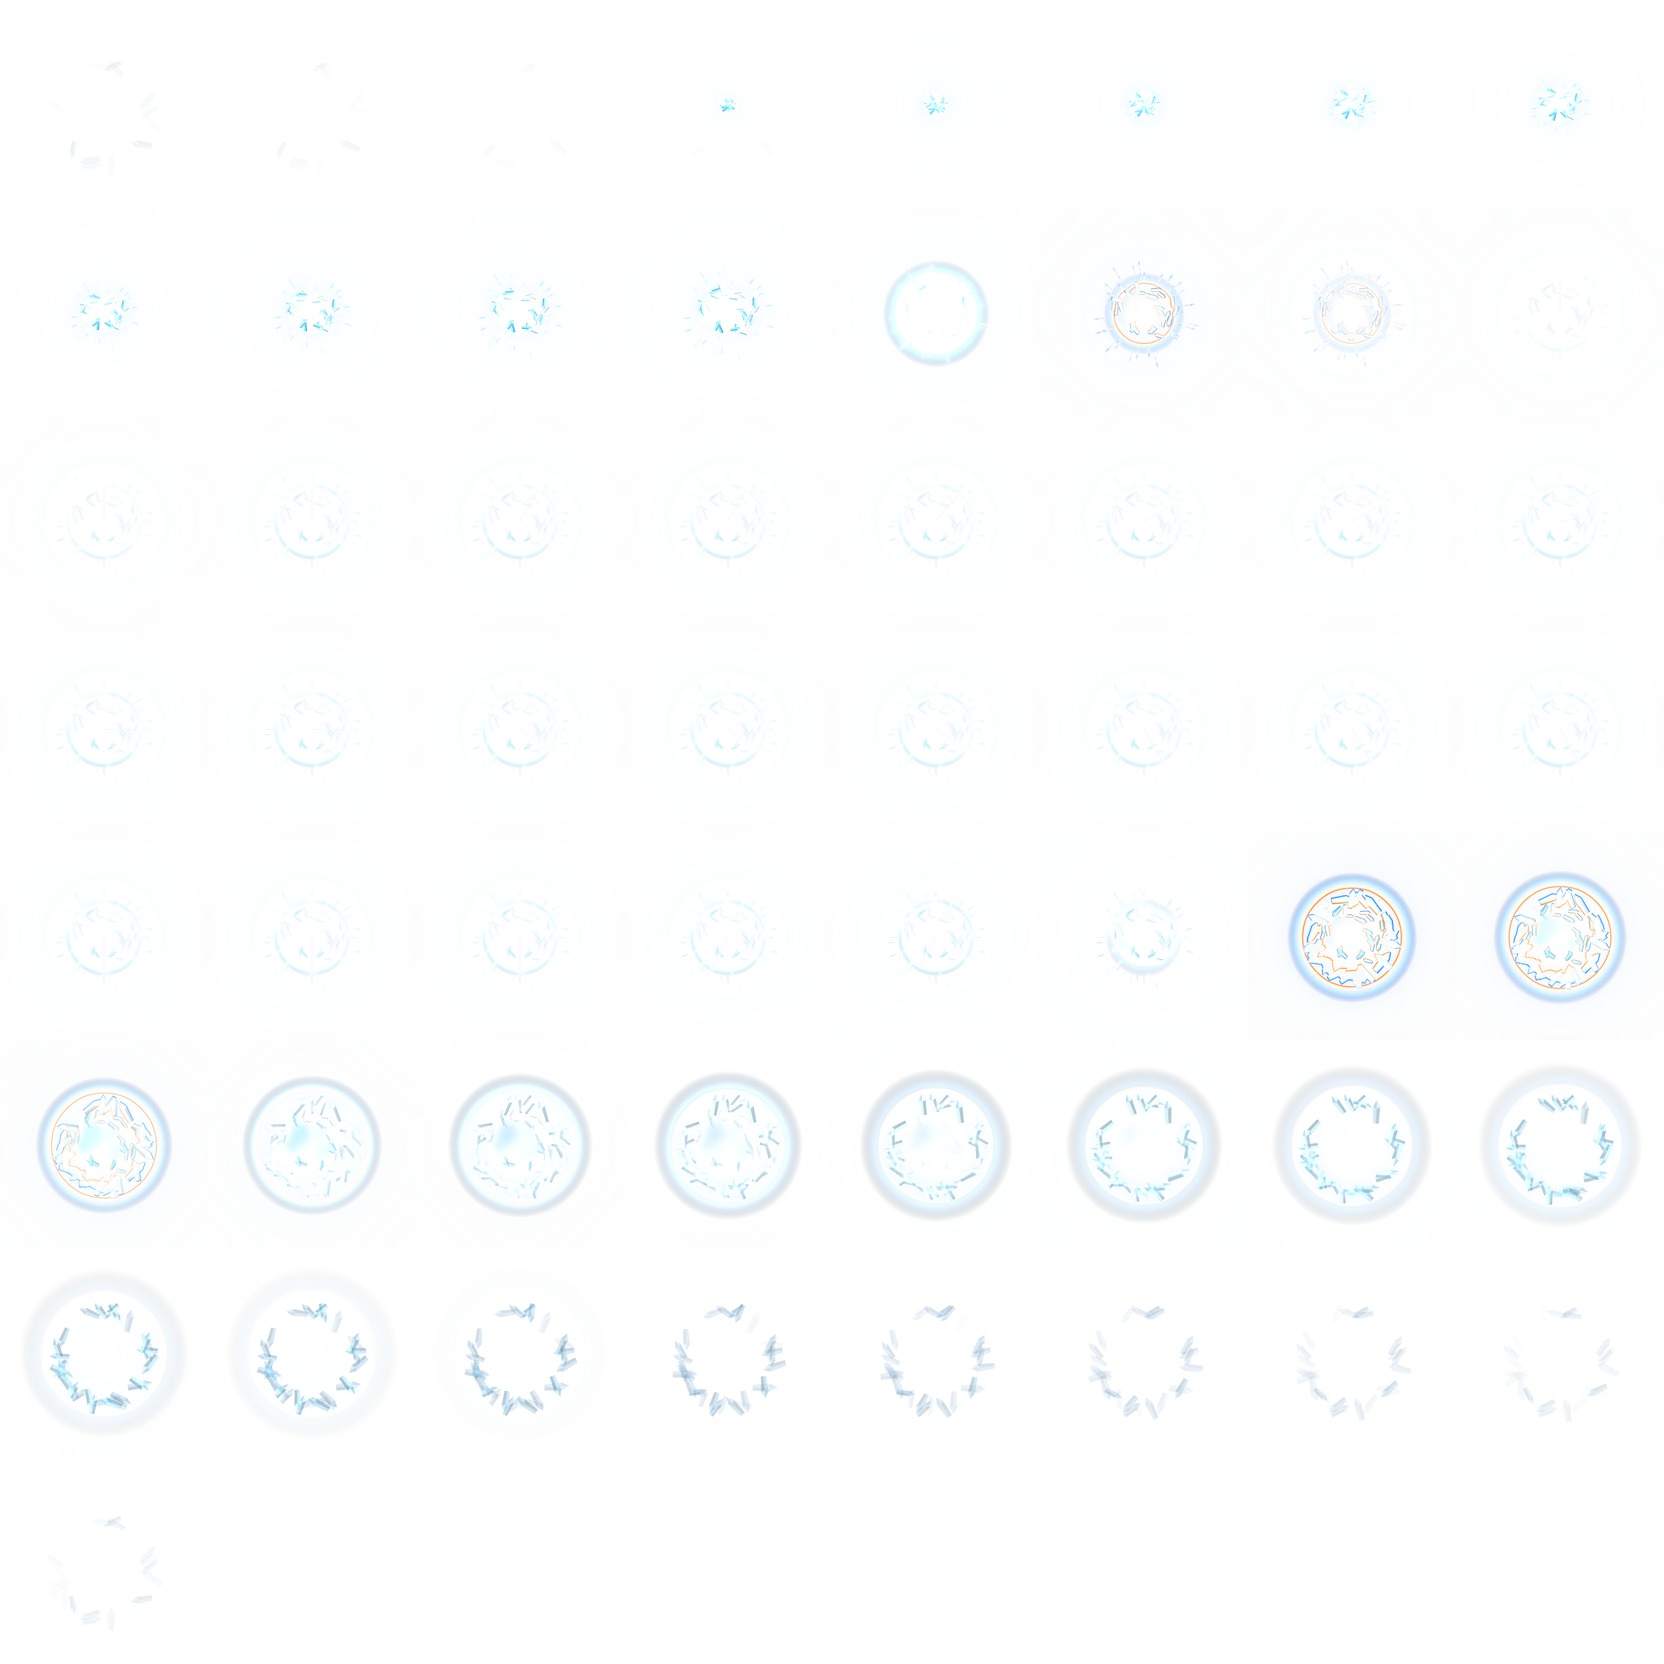
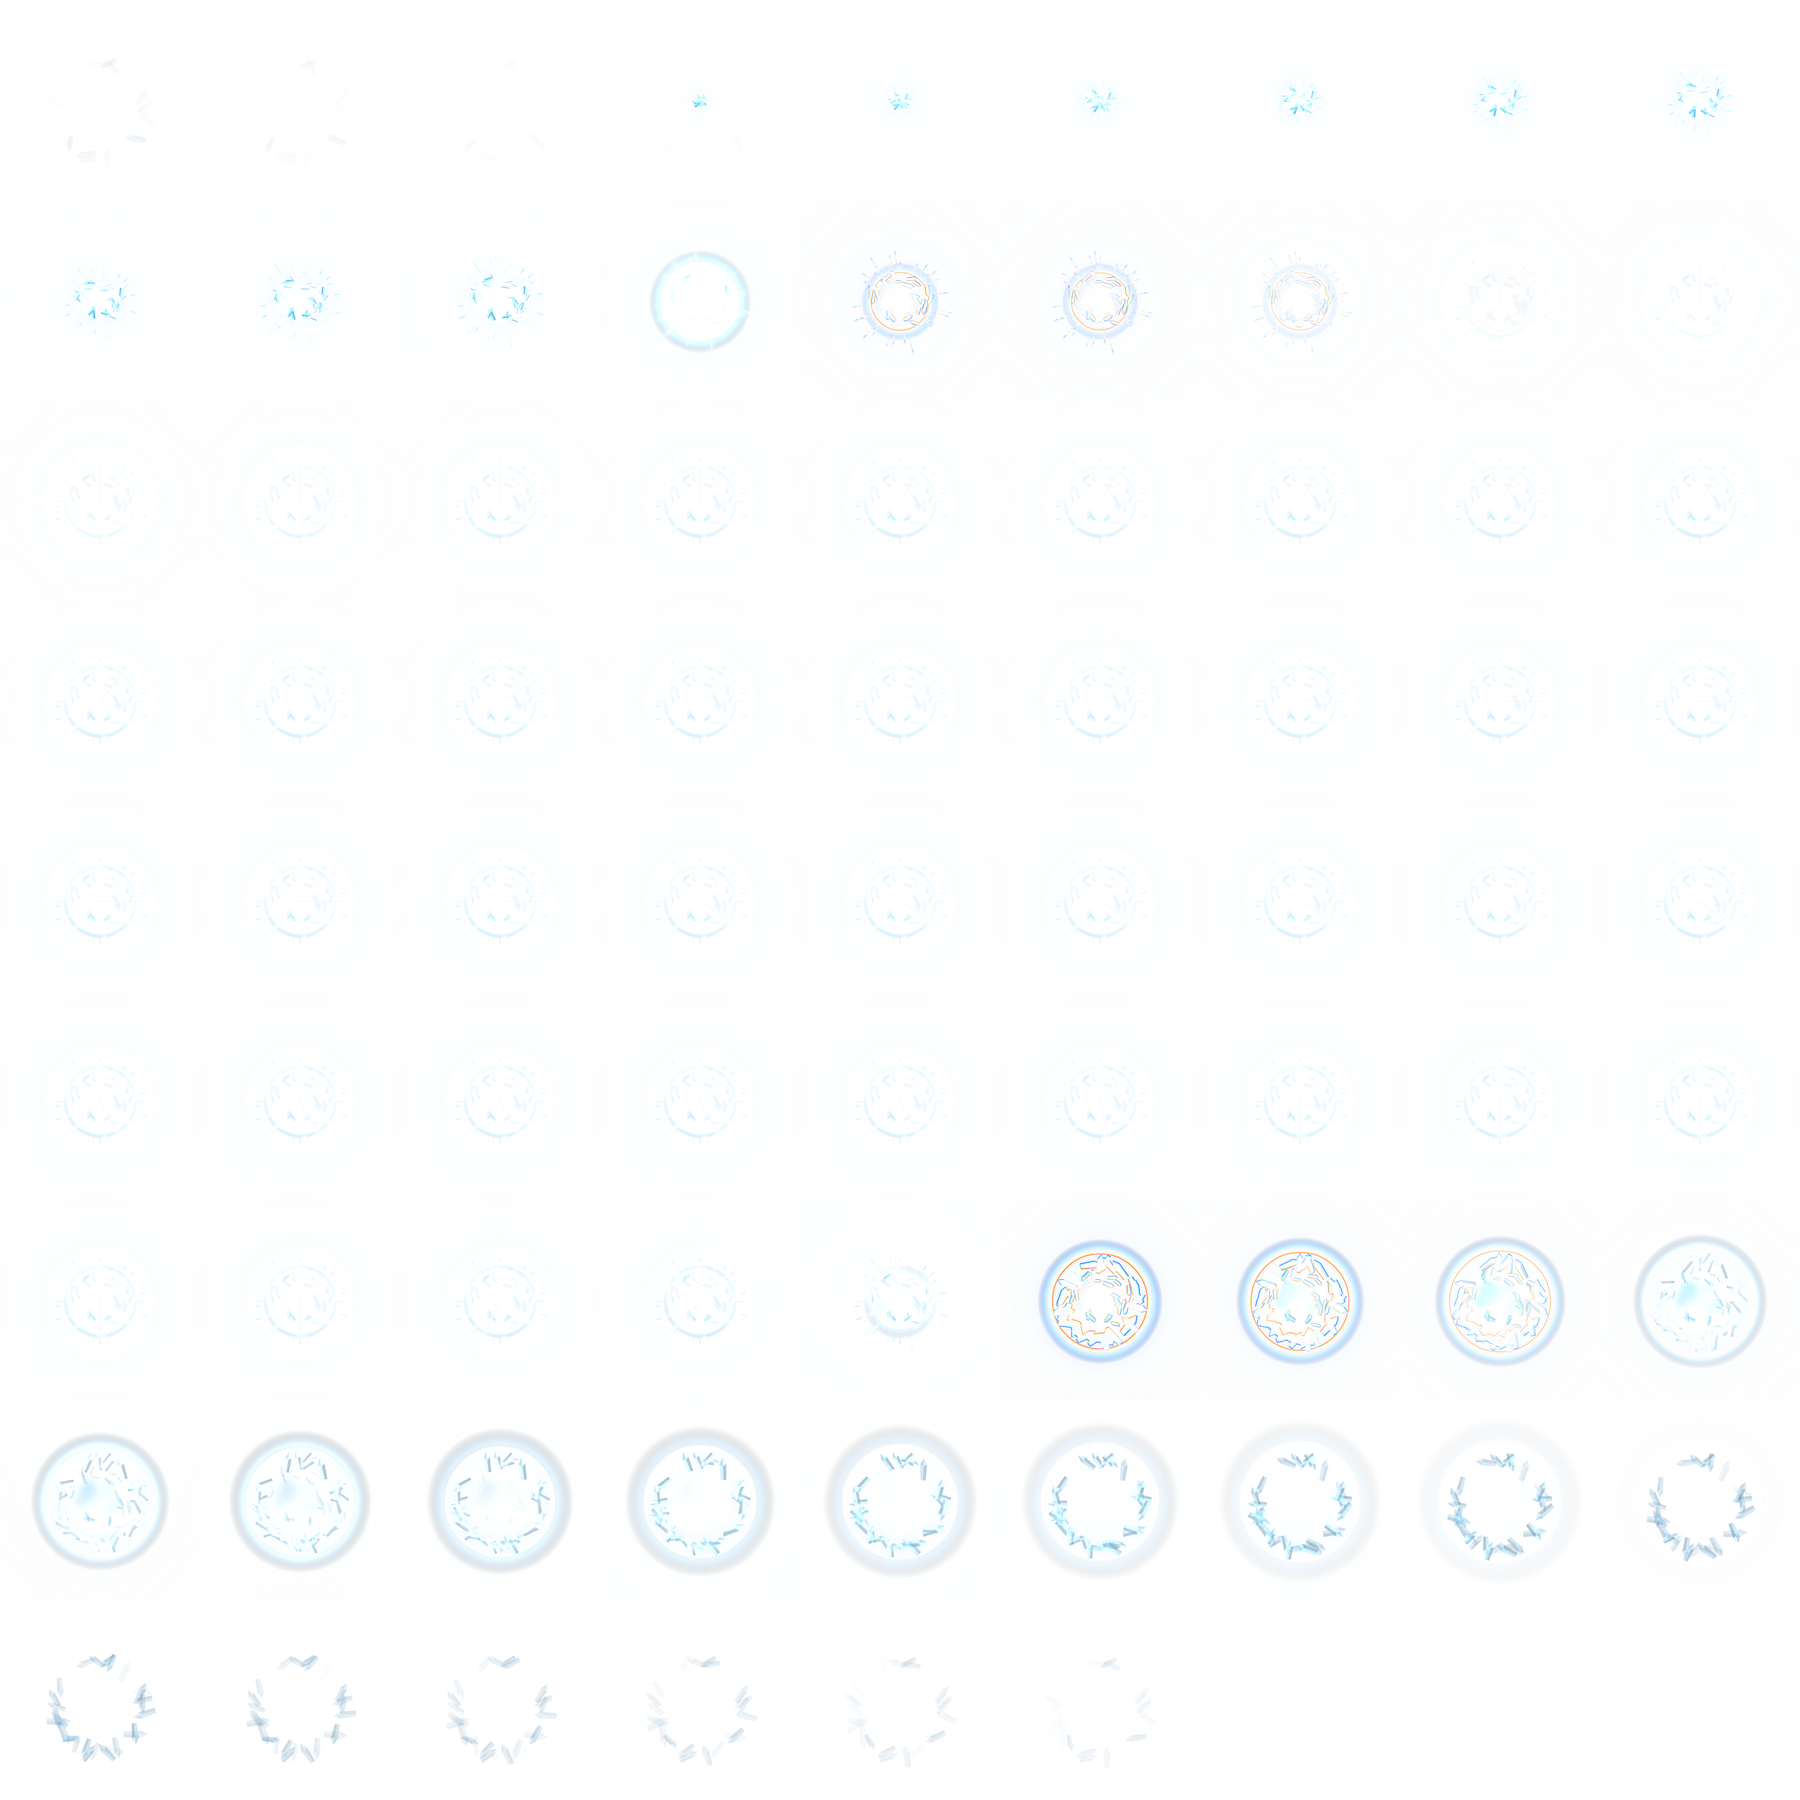
Absolute Zero clock: follows your cursor, its hand makes one full turn over the time stop (no more swinging back), brighter glow
Claude-Session: https://claude.ai/code/session_015kvLDLm9C1chE3KQqwCgsb

diff --git a/src/combat/IceFx.jsx b/src/combat/IceFx.jsx
@@ -208,28 +208,34 @@ export function IceScreen({ s, mainCard, mobile }) {
   );
 }
 
-// The zero point: an ice orb (ParticleFX sprite sheet, public/fx/ice_zero.png: 8 columns of
-// 208px frames) forms where you cast Absolute Zero, hangs there pulsing while time is stopped,
-// then shatters as time comes back and the storm hits.
-const ZERO = { img: `${BASE}fx/ice_zero.png`, cols: 8, rows: 8, form: [0, 13], hold: [13, 22], shatter: [35, 22], formDur: 0.6, holdFps: 12, shatterDur: 1 };
+// The zero point: an ice clock (ParticleFX sprite sheet, public/fx/ice_zero.png: 9 columns of
+// 200px frames) around your cursor while time is stopped. It forms, then its hand makes one
+// full turn over the time stop and it shatters as time comes back (with the storm). The sheet
+// only sweeps the hand 12 → 6, so for 6 → 12 the last frame turns half a circle.
+const ZERO = { img: `${BASE}fx/ice_zero.png`, cols: 9, rows: 9, form: [0, 15], hold: [15, 41], shatter: [56, 22], formDur: 0.5, shatterDur: 1 };
 function ZeroOrb({ s, ic, az }) {
-  let f;
+  let f, rot = 0;
   if (az) {
-    const e = az.dur - ICE_INTRO - az.t;   // seconds since the burst art cleared
+    const e = az.dur - ICE_INTRO - az.t;                       // seconds since the burst art cleared
+    const span = Math.max(0.1, az.dur - ICE_INTRO - ZERO.formDur);
     if (e < ZERO.formDur) f = ZERO.form[0] + Math.min(ZERO.form[1] - 1, Math.floor(e / ZERO.formDur * ZERO.form[1]));
     else {
-      const n = ZERO.hold[1], i = Math.floor((e - ZERO.formDur) * ZERO.holdFps) % (n * 2 - 2);
-      f = ZERO.hold[0] + (i < n ? i : n * 2 - 2 - i);   // back and forth: the loop doesn't jump
+      const p = Math.min(1, (e - ZERO.formDur) / span);          // 0 … 1: one full turn of the hand
+      if (p < 0.5) f = ZERO.hold[0] + Math.min(ZERO.hold[1] - 1, Math.floor(p * 2 * ZERO.hold[1]));
+      else { f = ZERO.hold[0] + ZERO.hold[1] - 1; rot = (p - 0.5) * 360; }
     }
   } else {
     f = ZERO.shatter[0] + Math.min(ZERO.shatter[1] - 1, Math.floor(ic.storm.t / ZERO.shatterDur * ZERO.shatter[1]));
+    rot = 180;
   }
+  const P = s.player.pos ?? ic.zero;                           // your cursor sits in the middle of it
   const F = Math.min(420 * s.k, Math.min(s.W, s.H) * 0.8);
-  const x = Math.min(Math.max(ic.zero.x, F * 0.35), s.W - F * 0.35), y = Math.min(Math.max(ic.zero.y, F * 0.35), s.H - F * 0.35);
   return (
-    <div className="zero-orb" style={{ left: x - F / 2, top: y - F / 2, width: F, height: F }}>
-      <img src={ZERO.img} alt="" draggable={false}
-        style={{ width: F * ZERO.cols, height: F * ZERO.rows, transform: `translate3d(${-(f % ZERO.cols) * F}px, ${-Math.floor(f / ZERO.cols) * F}px, 0)` }} />
+    <div className="zero-orb" style={{ width: F, height: F, transform: `translate3d(${P.x - F / 2}px, ${P.y - F / 2}px, 0)` }}>
+      <div className="zero-orb-clip" style={{ transform: rot ? `rotate(${rot.toFixed(1)}deg)` : undefined }}>
+        <img src={ZERO.img} alt="" draggable={false}
+          style={{ width: F * ZERO.cols, height: F * ZERO.rows, transform: `translate3d(${-(f % ZERO.cols) * F}px, ${-Math.floor(f / ZERO.cols) * F}px, 0)` }} />
+      </div>
     </div>
   );
 }
@@ -285,8 +291,10 @@ export const ICE_CSS = `
     opacity: 0.9; mix-blend-mode: normal; }
   .ice-fig.hit { filter: brightness(3) drop-shadow(0 0 12px #fff); }
   .ice-fig-hp { position:absolute; left:-30px; width:60px; top:10px; text-align:center; font-size:10px; color:#e0f2fe; text-shadow:0 0 4px #000; letter-spacing:1px; }
-  .zero-orb { position:absolute; z-index:11; overflow:hidden; pointer-events:none; }
-  .zero-orb img { position:absolute; left:0; top:0; max-width:none; }
+  .zero-orb { position:absolute; left:0; top:0; z-index:11; pointer-events:none;
+    filter: brightness(1.25) contrast(1.15) drop-shadow(0 0 10px rgba(125,211,252,0.95)) drop-shadow(0 0 22px rgba(56,189,248,0.6)); }
+  .zero-orb-clip { position:absolute; inset:0; overflow:hidden; }
+  .zero-orb-clip img { position:absolute; left:0; top:0; max-width:none; }
   .ice-world { position:absolute; inset:0; z-index:10; pointer-events:none;
     background: radial-gradient(ellipse at center, rgba(224,242,254,0.05) 30%, rgba(186,230,253,0.42) 100%);
     box-shadow: inset 0 0 90px rgba(224,242,254,0.75); }
